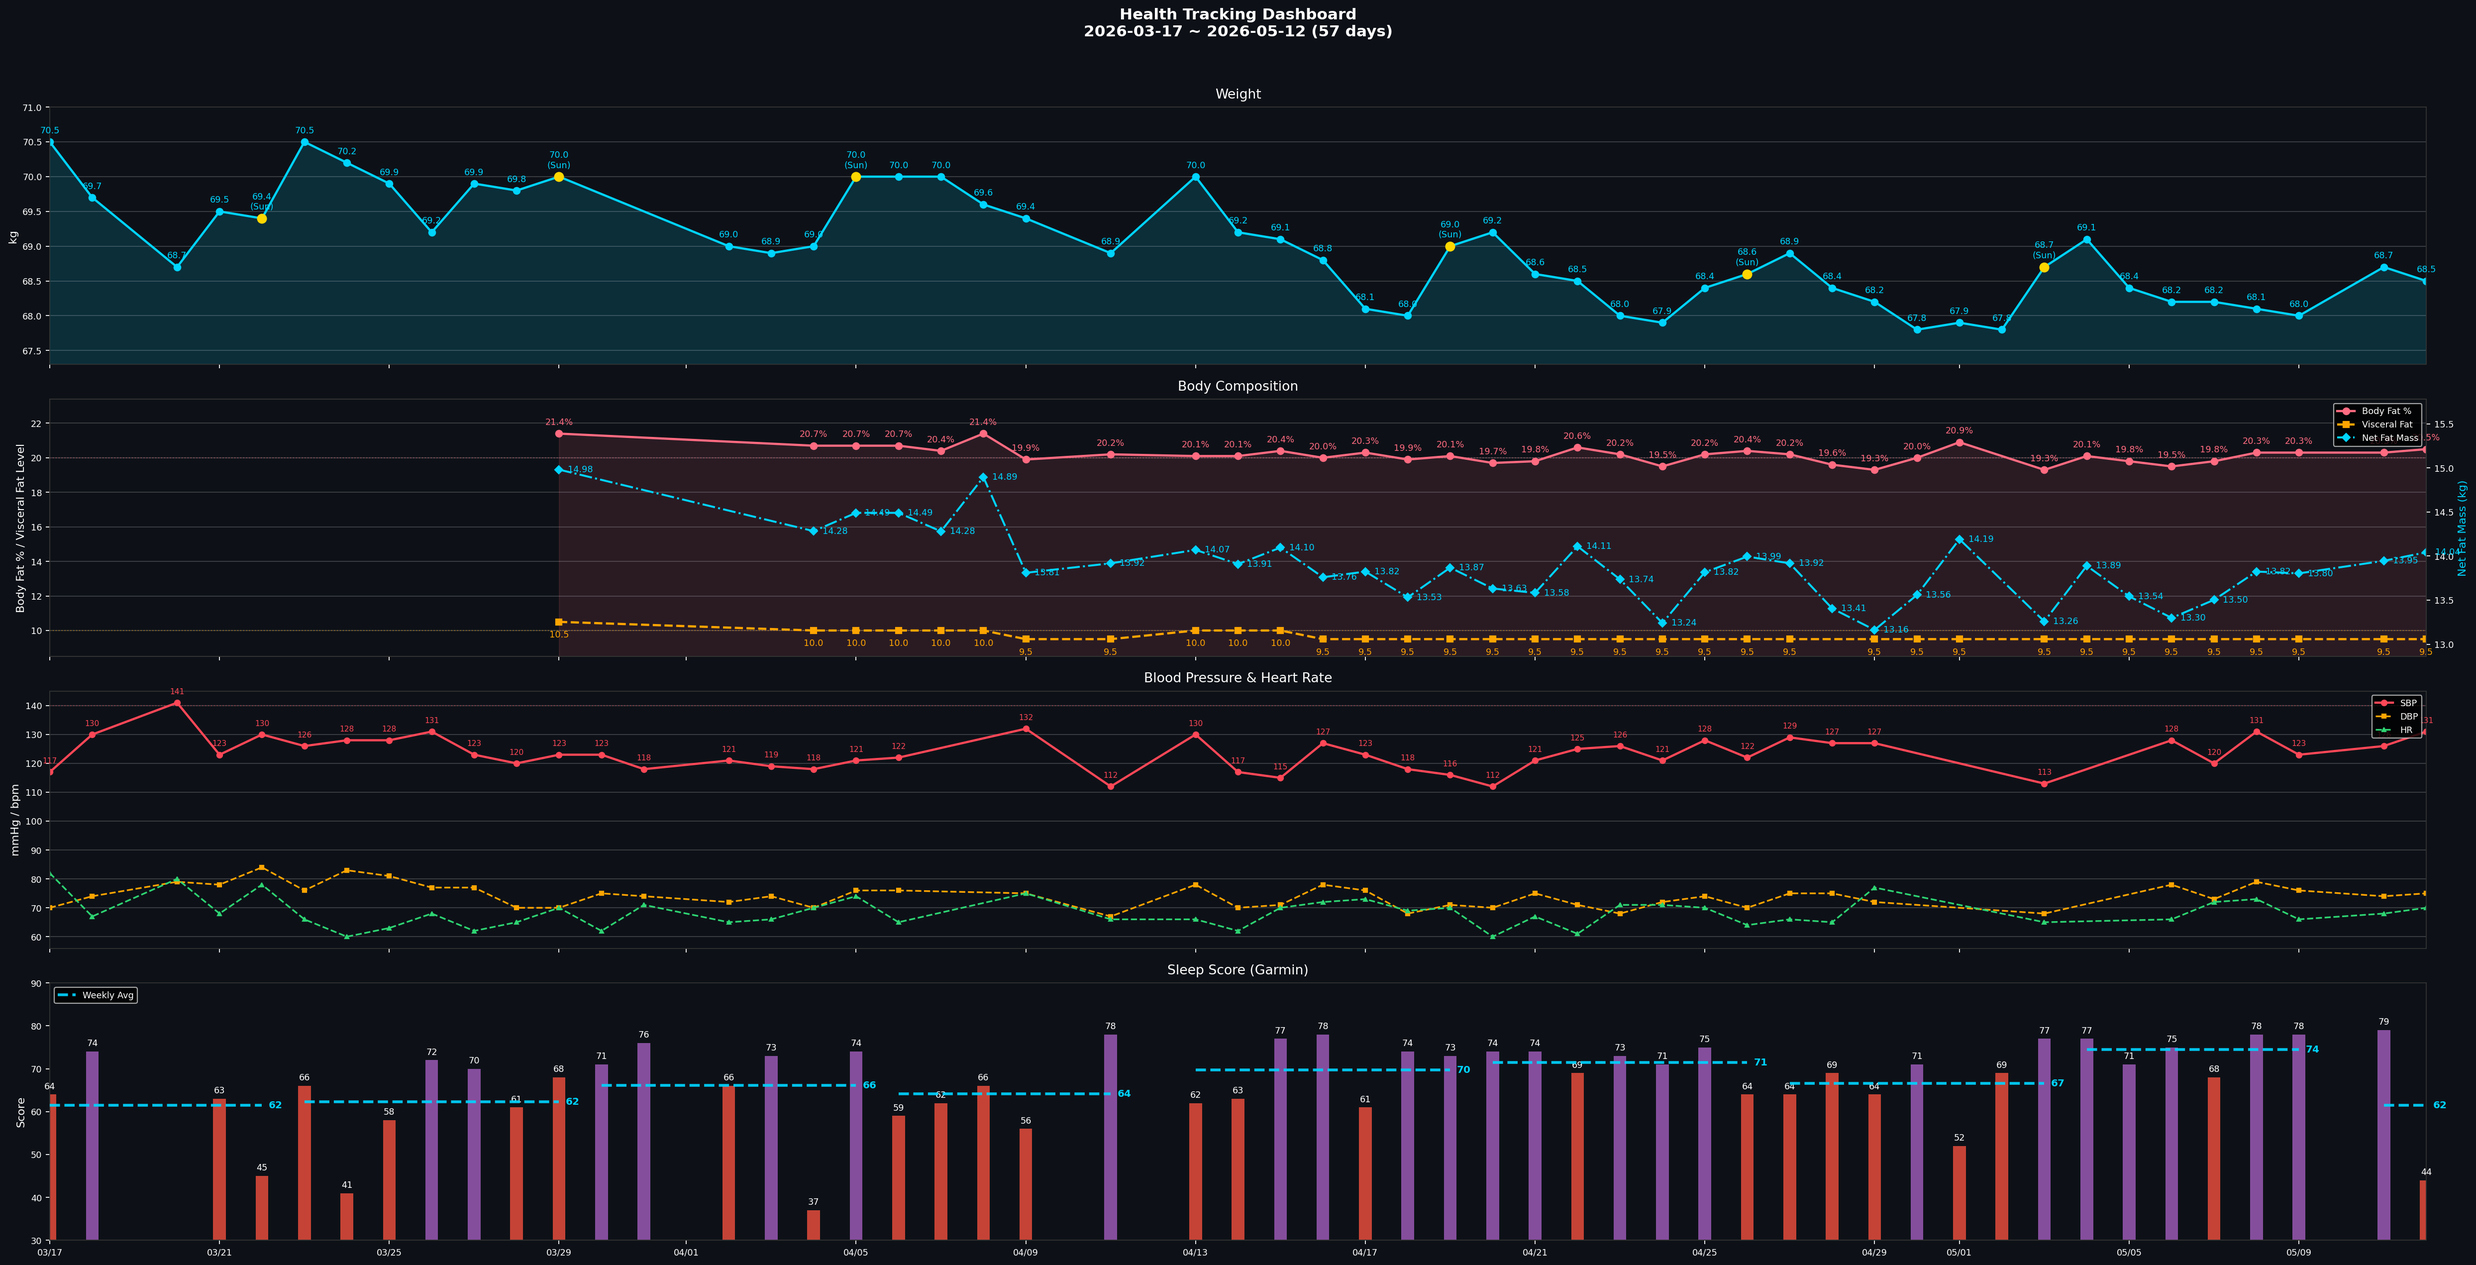
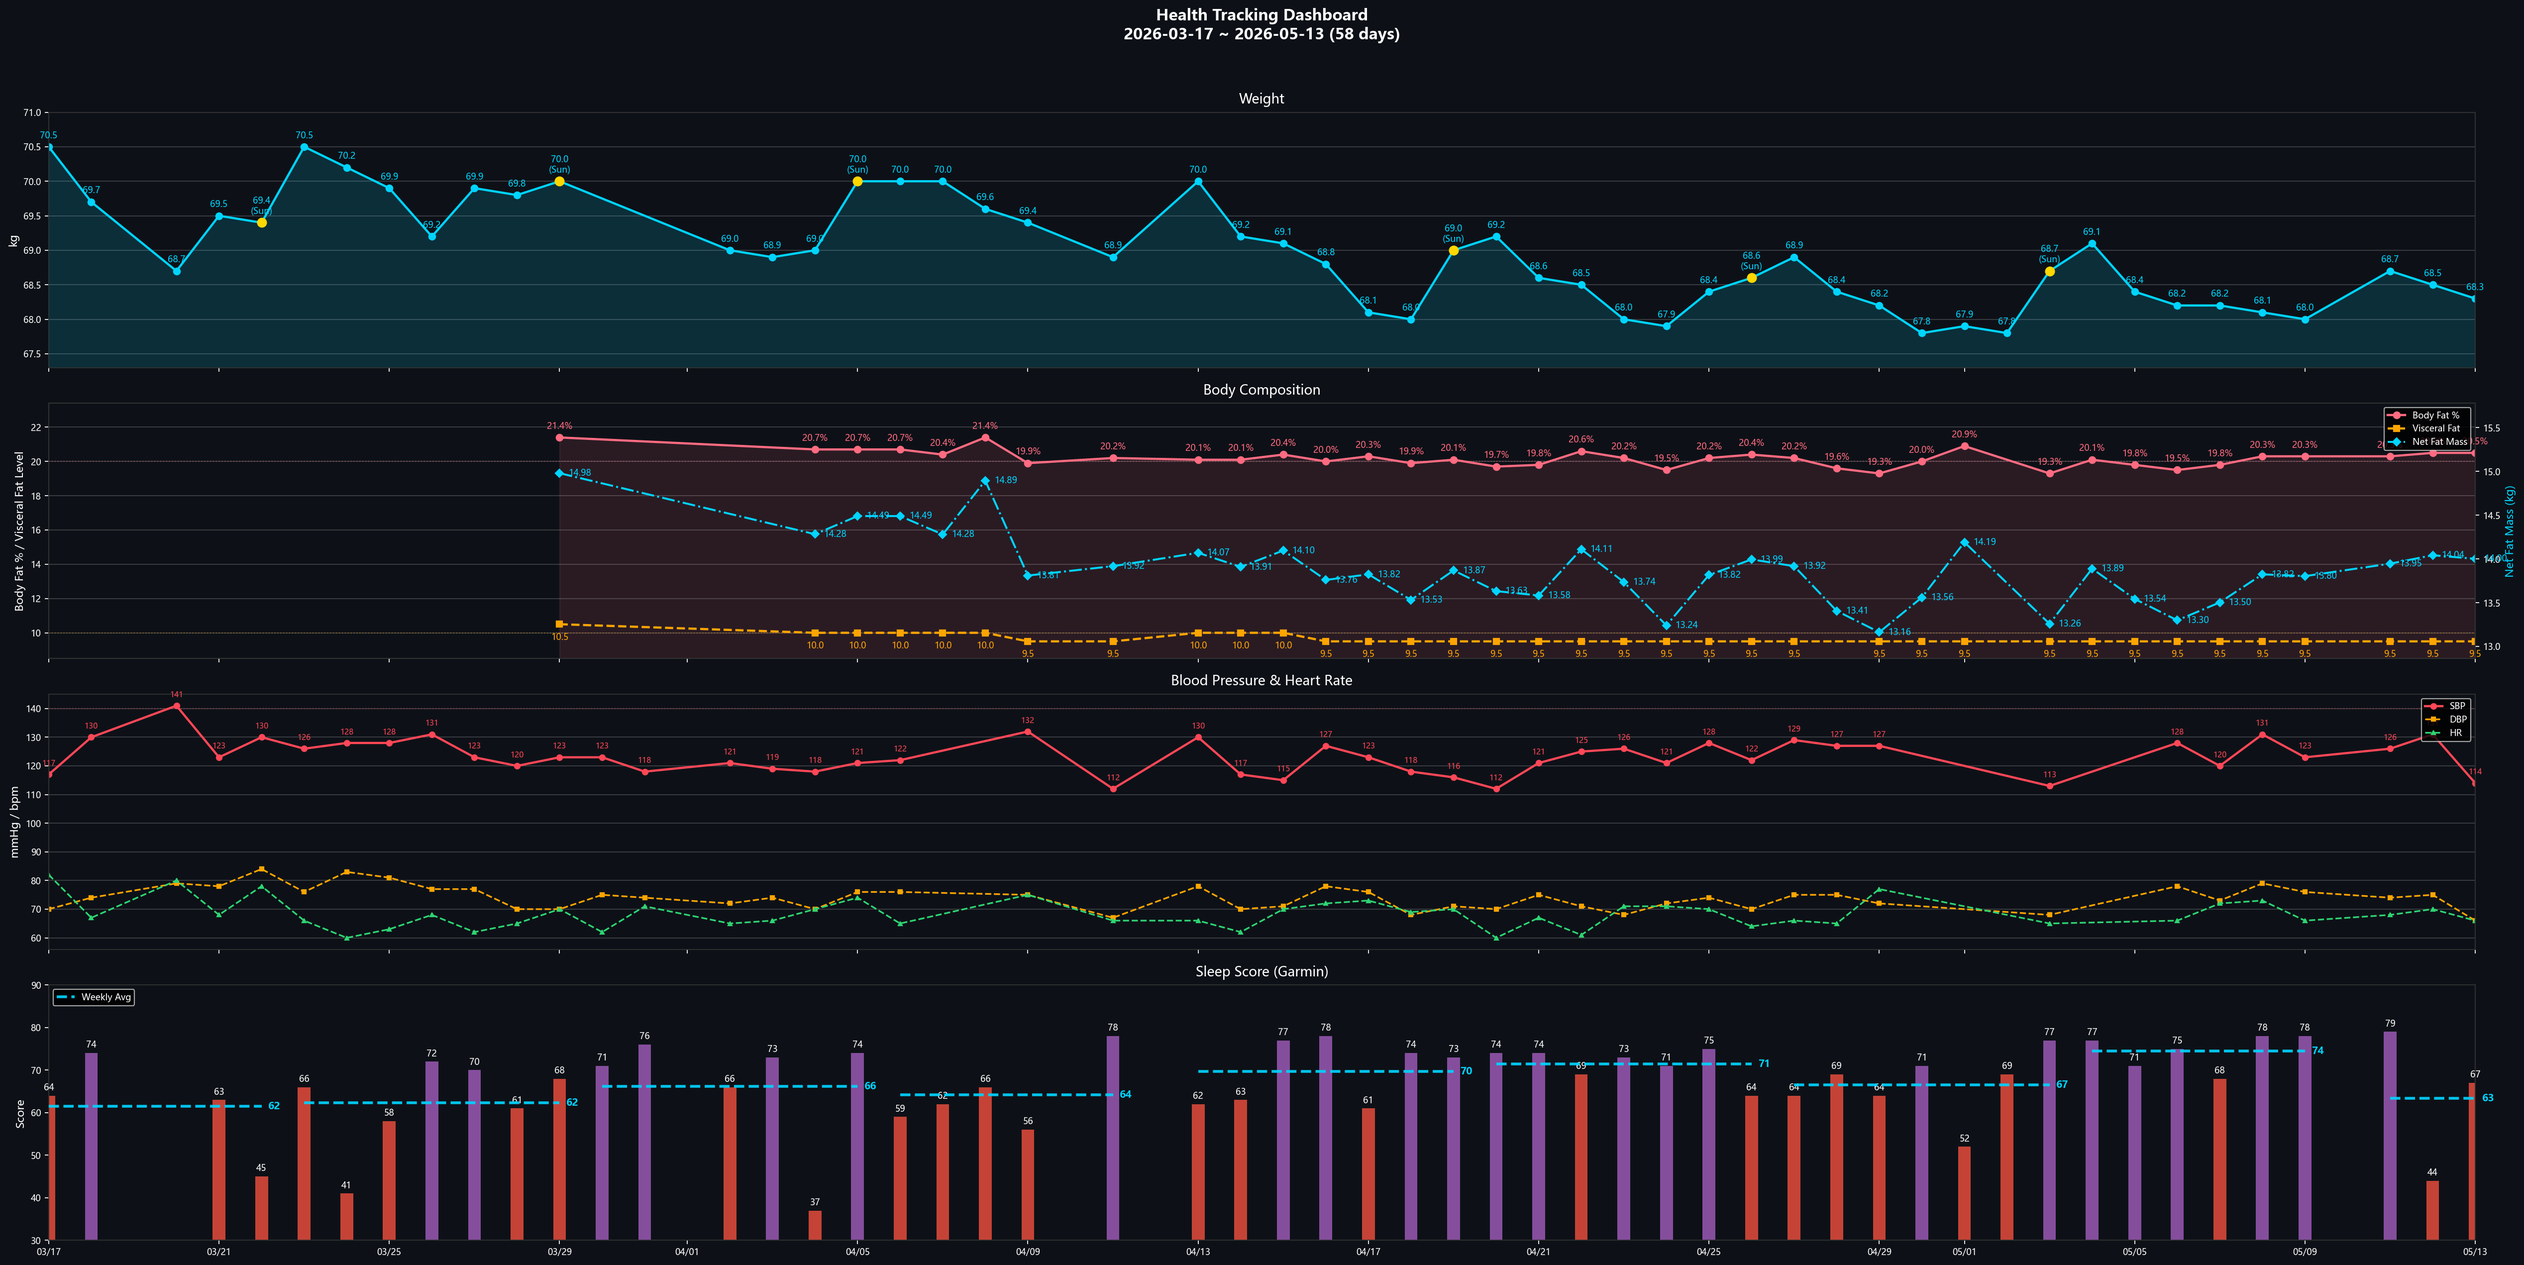
daily 2026-05-13: 68.3 kg / BP 114-66-66 / Sleep 67 / SpO2 nadir 82%
- 體重 68.3 kg、體脂 20.5%、內臟脂肪 9.5
- BP 第二次 114/66/66（穩定）
- 睡眠 22:21→03:42 (5h 20m)，Sleep Score 67，BB 42，主觀 2/5
- SpO2 連 7 晚 < 88%（最低 82%），25 晚命中 100% — PSG 紅旗持續
- 昨日飲水 2.0 L（已回寫 Garmin），活動消耗 320 kcal
- 身體信號：清
- 同步 weekly W20、dashboard、data.js

diff --git a/data.js b/data.js
@@ -9,8 +9,8 @@ window.HC_DATA = {
     lede:    { en: "Sleep, BP, lipids, uric acid — one shared metabolic root. Lifestyle stacks first; medication only after lifestyle plateaus.",
                zh: "睡眠、血壓、血脂、尿酸——共享同一個代謝根源。生活方式介入優先，等到效果平台期再考慮藥物。" },
     progressLbl: { en: "Weight progress · 70 → 65 kg", zh: "體重進度 · 70 → 65 公斤" },
-    progressMeta: { en: "Day 57 · 68.0 kg · Sat official (5/9)", zh: "第 57 天 · 68.0 公斤 · 週六正式（5/9）" },
-    startDate: { en: "Start date · Mar 17, 2026 · Last sync 5/12", zh: "起始日期 · 2026 年 3 月 17 日 · 最後同步 5/12" },
+    progressMeta: { en: "Day 58 · 68.0 kg · Sat official (5/9)", zh: "第 58 天 · 68.0 公斤 · 週六正式（5/9）" },
+    startDate: { en: "Start date · Mar 17, 2026 · Last sync 5/13", zh: "起始日期 · 2026 年 3 月 17 日 · 最後同步 5/13" },
     startWeight: 70,
     targetWeight: 65,
     currentWeight: 68.0,
@@ -21,13 +21,13 @@ window.HC_DATA = {
     {
       sys: "heart", name: { en: "Blood Pressure", zh: "血壓" },
       val: "126/76", unit: "mmHg",
-      delta: { en: "W19 weekly avg (4 days) · target met (<130) · last 131/75 (5/12)", zh: "W19 週均（4 天）· 已達標 (<130) · 最新 131/75 (5/12)" },
+      delta: { en: "W19 weekly avg (4 days) · target met (<130) · last 114/66 (5/13)", zh: "W19 週均（4 天）· 已達標 (<130) · 最新 114/66 (5/13)" },
       cadence: { en: "Daily · weekly avg", zh: "每日 · 週均" },
       status: "ok",
     },
     {
       sys: "sleep", name: { en: "Sleep Score", zh: "睡眠分數" },
-      val: "44", unit: "Garmin",
+      val: "67", unit: "Garmin",
       delta: { en: "5/4 · OSA flag: T90 18.4% (severe)", zh: "5/4 · OSA 紅旗：T90 18.4%（重度）" },
       cadence: { en: "Daily · Garmin", zh: "每日 · Garmin" },
       status: "warn",
@@ -820,14 +820,14 @@ window.HC_DATA = {
   tracker: {
     // [SBP, DBP] — gaps filled with prior reading
     bp: [
-      [127,75], [127,72], [127,72], [127,72], [127,72], [113,68], [113,68], [113,68], [128,78], [120,73], [131,79], [123,76], [126,74], [131,75],
+      [127,72], [127,72], [127,72], [127,72], [113,68], [113,68], [113,68], [128,78], [120,73], [131,79], [123,76], [126,74], [131,75], [114,66],
     ],
     // 4/21–5/4 daily weight (kg)
-    weight: [68.4, 68.2, 67.8, 67.9, 67.8, 68.7, 69.1, 68.4, 68.2, 68.2, 68.1, 68, 68.7, 68.5],
+    weight: [68.2, 67.8, 67.9, 67.8, 68.7, 69.1, 68.4, 68.2, 68.2, 68.1, 68, 68.7, 68.5, 68.3],
     // Garmin Sleep Score
-    sleep:  [69, 64, 71, 52, 69, 77, 77, 71, 75, 68, 78, 78, 79, 44],
+    sleep:  [64, 71, 52, 69, 77, 77, 71, 75, 68, 78, 78, 79, 44, 67],
     // Body Battery waking
-    bb:     [57, 58, 51, 47, 41, 54, 49, 47, 56, 47, 37, 48, 55, 36],
+    bb:     [58, 51, 47, 41, 54, 49, 47, 56, 47, 37, 48, 55, 36, 42],
   },
 
   // ===== Running — started 2026-04-26 =====

diff --git a/reviews/food/2026-05-12.md b/reviews/food/2026-05-12.md
@@ -1,0 +1,92 @@
+# 飲食紀錄 — 2026-05-12
+
+**每日目標**（減重期 1,800 kcal / 體重 68 kg）：蛋白質 95 g ｜ 脂肪 50–65 g ｜ 碳水 225–250 g ｜ 纖維 ≥25 g ｜ 鈉 <1,500 mg ｜ 水 2.5–3.0 L
+
+---
+
+## 早餐（目標 350–400 kcal / 30–32 g 蛋白質）
+
+| 品項 | 份量 | 熱量 (kcal) | 蛋白質 (g) | 脂肪 (g) | 碳水 (g) | 膳食纖維 (g) | 鈉 (mg) | 鉀 (mg) |
+|------|------|-------------|------------|----------|----------|--------------|---------|---------|
+| _待補_ | | | | | | | | |
+| **小計** | | | | | | | | |
+
+---
+
+## 午餐（目標 450–550 kcal / 30–32 g 蛋白質）
+
+| 品項 | 份量 | 熱量 (kcal) | 蛋白質 (g) | 脂肪 (g) | 碳水 (g) | 膳食纖維 (g) | 鈉 (mg) | 鉀 (mg) |
+|------|------|-------------|------------|----------|----------|--------------|---------|---------|
+| 白煮蛋 | 2 顆（~100 g） | 140 | 12.6 | 10.0 | 0.8 | 0 | 140 | 126 |
+| _其他午餐品項待補（計畫：地瓜 150 g + 自帶毛豆 120 g + 菇蕈沙拉 30-50 g + 自泡抹茶拿鐵 400 mL）_ | | | | | | | | |
+| **小計（目前）** | | **140** | **12.6** | **10.0** | **0.8** | **0** | **140** ✅ | **126** |
+
+**對照昨日午餐（茶葉蛋 ×2）**：
+| 項目 | 昨日茶葉蛋 ×2 | 今日白煮蛋 ×2 | Δ |
+|------|---------------|---------------|---|
+| 鈉 | 580 mg | 140 mg | **−440 mg** ✅（與 CLAUDE.md 預估完全吻合）|
+| 蛋白質 | 14 g | 12.6 g | −1.4 g（可忽略）|
+| 熱量 | 160 kcal | 140 kcal | −20 kcal |
+
+---
+
+## 晚餐（目標 450–550 kcal / 30–32 g 蛋白質）
+
+| 品項 | 份量 | 熱量 (kcal) | 蛋白質 (g) | 脂肪 (g) | 碳水 (g) | 膳食纖維 (g) | 鈉 (mg) | 鉀 (mg) |
+|------|------|-------------|------------|----------|----------|--------------|---------|---------|
+| _待補（計畫：清蒸魚 / 白肉雞 + 菇蕈 50-80 g + 蔬菜，避高鈉醬料）_ | | | | | | | | |
+| **小計** | | | | | | | | |
+
+---
+
+## 點心 / 其他
+
+| 品項 | 份量 | 熱量 (kcal) | 蛋白質 (g) | 脂肪 (g) | 碳水 (g) | 膳食纖維 (g) | 鈉 (mg) | 鉀 (mg) |
+|------|------|-------------|------------|----------|----------|--------------|---------|---------|
+| _待補_ | | | | | | | | |
+| **小計** | | | | | | | | |
+
+---
+
+## 每日總計 vs 目標（目前進度）
+
+| | 熱量 (kcal) | 蛋白質 (g) | 脂肪 (g) | 碳水 (g) | 膳食纖維 (g) | 鈉 (mg) | 鉀 (mg) | Na/K |
+|--|-------------|------------|----------|----------|--------------|---------|---------|------|
+| **目前** | 140 | 12.6 | 10.0 | 0.8 | 0 | 140 | 126 | 1.11 ⚠（極早期，僅 2 顆蛋）|
+| **目標** | 1,800 | 95 | 50–65 | 225–250 | ≥25 | <1,500 | ≥3,500 | <0.6 |
+| **剩餘額度** | 1,660 | 82.4 | 40-55 | 224 | ≥25 | **1,360 ✅ 充裕** | 3,374 | — |
+
+**Na/K 比值判讀（你高 BP + OSA 體質）**：
+- < 0.5 ✅ 理想（INTERSALT 1988 與最低 BP 相關）
+- 0.5-0.6 🟢 良好
+- 0.6-0.8 🟡 邊緣
+- > 0.8 🟠 警示（鈉相對鉀過高 → BP 上升風險、夜間水腫加劇 OSA）
+
+---
+
+## 補充品（不計熱量）
+
+- [ ] 早：Vitamin D3 3000 IU + K2 MK-7 100 mcg（需 ≥5 g 脂肪同攝）、L-Citrulline 2 g
+- [ ] 午：—
+- [ ] 晚：Omega-3 魚油 rTG ×2（晚餐後、高脂餐吸收最佳）
+- [ ] 睡前：Chelated Magnesium 400 mg（睡前 1-2 小時）、酸櫻桃 500 mg
+
+## 水分（目標 2.5–3.0 L，17:00 前完成主補水）
+
+- [ ] 晨起 300–400 mL 溫水
+- [ ] 上午拿鐵 1 杯
+- [ ] 午前/午後各 500 mL
+- [ ] 洛神花茶 ×2 杯
+- [ ] 17:00 後僅補水至口渴解除
+
+---
+
+## 觀察
+
+- ✅ 午餐已成功將茶葉蛋換成白煮蛋，鈉攝取較昨日同部位降低 440 mg（驗證 CLAUDE.md 替換策略效益）
+- ⚠ 鈉預算還剩 1,360 mg，**晚餐若選清蒸無醬可控在 400-600 mg**，仍可大幅低於昨日 1,160 mg/全日的趨勢
+- ⚠ 鉀進度極低（126/3,500 mg = 4%），今日剩餘餐次應主動補：香蕉、地瓜、毛豆、菇蕈、深綠葉菜（每項約 +400-500 mg K）
+
+---
+
+*Filed: reviews/food/2026-05-12.md*

diff --git a/reviews/daily/2026-05-13.md b/reviews/daily/2026-05-13.md
@@ -1,0 +1,102 @@
+# 晨間健康紀錄 — 2026-05-13
+
+*3 分鐘。起床後立即完成。記錄，不分析。*
+
+---
+
+## 體重
+
+**今日：68.3 kg**
+**體脂率：20.5 %**
+**內臟脂肪等級：9.5**
+
+*每週六早晨為正式紀錄（排尿後、進食前；連 5 個工作日後、週末大餐前的真實低點）。其他日可選填。*
+
+---
+
+## 血壓（晨間）
+
+*起床後 1 小時內，上完廁所、進食前。坐下安靜 5 分鐘，連量兩次取第二次。*
+
+| 次數 | 收縮壓 | 舒張壓 | 心率 |
+|------|--------|--------|------|
+| 第一次 | — | — | — |
+| 第二次 | 114 | 66 | 66 |
+
+---
+
+## 睡眠狀態
+
+**Garmin 偵測入睡：** 22:21
+**實際上床：**
+**實際起床：** 03:42
+**中途醒來：** 無
+**Garmin Sleep Score：** 67 / 100
+**Garmin Body Battery 起床值：** 42
+**主觀恢復感：** 2 / 5（疑有加不足）
+**入睡 latency：** 自動估算
+
+### SpO2 夜間最低（7 晚趨勢）
+
+| 日期 | -6 | -5 | -4 | -3 | -2 | -1 | 今晨 |
+|------|----|----|----|----|----|----|------|
+| 日期 | 05-07 | 05-08 | 05-09 | 05-10 | 05-11 | 05-12 | 05-13 |
+| 最低 % | 79 | 87 | 85 | 84 | 84 | 86 | 82 |
+
+**今晨日均 SpO2：** 97%
+**< 88% 連續晚數：** 7（OSA 紅旗門檻：連 3 晚 < 88% → 強烈建議 PSG）
+
+**SpO2 全夜圖：** ![](spo2/spo2_desat_2026-05-13.png)
+**SpO2 趨勢圖：** ![](spo2/spo2_desat_trend.png)
+**SpO2 多晚 Overlay（rolling 7 晚）：** ![](spo2/spo2_overlay_2026-05-07_to_2026-05-13_elapsed.png)
+
+*Sleep Score < 65 或 Body Battery < 50 連續三天 → 重新檢視睡眠修復方案。*
+
+---
+
+## 昨日回顧
+
+**實際飲水量：** 2.0 L（目標 ≥ 2.5L；高尿酸最佳 2.8–3.0L；17:00 前完成 60-70%）— 已回寫至 Garmin Connect
+**昨日活動消耗：** 320 kcal（主動 245 + BMR；4 段：cycling/walking/cycling/meditation）
+**昨日 Na / K / Na-K ratio：** — / — / —（飲食檔有 3 row 但未填值）
+
+---
+
+## 身體信號
+
+*任何張力、疼痛、疲勞、異常 — 或「清」。記位置、性質、強度。*
+
+| 部位 | 性質 | 強度 (0-10) |
+|------|------|-------------|
+| 清 | — | — |
+
+---
+
+## 今日計畫速記
+
+- [ ] 飲水目標：3.0 L（錨點 09:30 ≥1.0L / 13:30 ≥2.0L / 17:00 截止 2.5L）
+- [ ] 補充品（核心，2026-05-11 v2）：
+  - 早餐（06:00）：D3 2000 IU + K2 MK-7 180 mcg + L-Citrulline 4 g + 益生菌
+  - 午餐前 30 min：Psyllium 5 g + 350 mL 水
+  - 晚餐前 30 min：Psyllium 5 g + 350 mL 水
+  - 晚餐後：魚油 ×4（拆 18:30 ×2 + 19:30 ×2）
+  - 睡前（21:00）：鎂甘胺酸 400 mg + 酸櫻桃 1000-2000 mg + Glycine 純粉 3 g
+  - 茶飲：洛神花 ×2 杯（早 + 14:00 前）
+  - 食物層：南瓜籽 30 g（15:30）+ 菇蕈 100-130 g/天（午 30-50 + 晚 50-80）
+- [ ] 運動（17:00 固定）：依排程執行
+- [ ] 活動度/伸展（09:30 + 20:30 兩次錨點）
+- [ ] Wind-down（20:00 燈光降 + 螢幕濾鏡，液體截止）
+- [ ] 上床 21:30 / 熄燈 22:00（TST 目標 7h+）
+
+---
+
+### 💡 PT 建議
+
+1. **OSA 紅旗極度緊急**：最低 SpO2 **連續 7 晚 < 88%**（今晨 82%，25 晚命中率 100%、平均 82.6%）— 立即預約 PSG 多項睡眠檢查，勿再延遲。
+2. **睡眠效率**：總時長 5h 20m + 03:42 早醒 + 主觀恢復感 2/5；今晚提前 wind-down，22:00 熄燈為硬性目標，避免再縮短 TST。
+3. **飲水補強**：昨日 2.0 L 略低於 2.5L 目標；今日依錨點 09:30/13:30/17:00 推進至 3.0L，配合高尿酸排泄。
+4. **BP 114/66**：正常範圍，趨勢延續穩定。
+
+---
+
+*Filed: reviews/daily/2026-05-13.md*

diff --git a/reviews/weekly/2026-W20.md b/reviews/weekly/2026-W20.md
@@ -31,9 +31,9 @@
 
 |  | 一 | 二 | 三 | 四 | 五 | 六 | 日 |
 |--|----|----|----|----|----|----|-----|
-| 體重 (kg) | 68.7 | 68.5 | | | | | |
-| 體脂率 (%) | 20.3 | 20.5 | | | | | |
-| 內臟脂肪 | 9.5 | 9.5 | | | | | |
+| 體重 (kg) | 68.7 | 68.5 | 68.3 | | | | |
+| 體脂率 (%) | 20.3 | 20.5 | 20.5 | | | | |
+| 內臟脂肪 | 9.5 | 9.5 | 9.5 | | | | |
 
 **本週正式讀數（週六早晨）：** _____ kg｜體脂率：_____%｜內臟脂肪：_____
 **上週正式讀數（週六早晨）：** _____ kg｜體脂率：_____%｜內臟脂肪：_____
@@ -47,7 +47,7 @@
 |------|--------|--------|------|
 | 05-11 (一) | 126 | 74 | 68 |
 | 05-12 (二) | 131 | 75 | 70 |
-| 05-13 (三) | | | |
+| 05-13 (三) | 114 | 66 | 66 |
 | 05-14 (四) | | | |
 | 05-15 (五) | | | |
 | 05-16 (六) | | | |
@@ -65,7 +65,7 @@
 |------|------|------|--------|-------------|--------------|----------|
 | 05-11 (一) | 21:46 | 06:01 | 0 | 79 | 55 | 3 |
 | 05-12 (二) | 21:25 | 01:31 | 0 | 44 | 36 | 2 |
-| 05-13 (三) | | | | | | |
+| 05-13 (三) | 22:21 | 03:42 | 0 | 67 | 42 | 2 |
 | 05-14 (四) | | | | | | |
 | 05-15 (五) | | | | | | |
 | 05-16 (六) | | | | | | |
@@ -111,6 +111,7 @@
 |------|------------------------|
 | 05-11 | 騎車 30.4 min（兩段）+ meditation 10 min；主動 277 kcal |
 | 05-12 | 待定（雙腳痠 → 改低衝擊 Zone 2 騎車或快走 30 min） |
+| 05-13 | 17:00 排程運動（待完成） |
 
 ---
 

diff --git a/reports/daily-garmin/2026-05-12.md b/reports/daily-garmin/2026-05-12.md
@@ -6,28 +6,33 @@
 - 深眠：72 分｜REM：0 分
 - Sleep Score：44
 - Body Battery 起床值：36
+- 估算上床：21:00｜入睡 latency：26 分
 
 ## 靜息心率
 - RHR：60.0 bpm
 
 ## 壓力
-- 日均：27
+- 日均：29
 
 ## 步數
-- 總計：3,930
+- 總計：11,240
 
 ## SpO2
-- 日均：96.0%
+- 日均：95.0%
 - 最低：86%
 
 ## 活動
 | 時段 | 類型 | 距離 | 時長 | 平均 HR | 最大 HR | 主動 kcal | 含 BMR |
 |------|------|------|------|---------|---------|-----------|--------|
 | 09:27 | cycling | 1.15 km | 32.9 min | 98 | 156 | 130 | 174 |
+| 12:36 | walking | 1.22 km | 18.8 min | 103 | 118 | 80 | 105 |
+| 17:15 | cycling | 1.10 km | 4.7 min | 122 | 133 | 35 | 41 |
+| 18:06 | meditation | 0.00 km | 10.0 min | 85 | 106 | 0 | 0 |
+| **小計** | 4 段 | **3.47 km** | **66.4 min** | — | — | **245** | **320** |
 
 ## 飲水
-- 實際：0.00 L
+- 實際：0.50 L
 - 目標：2.00 L
-- 運動流汗耗水：0.36 L
+- 運動流汗耗水：0.76 L
 
 _Source: data/garmin/2026-05-12.json (gitignored)_

diff --git a/reports/daily-garmin/2026-05-13.md b/reports/daily-garmin/2026-05-13.md
@@ -1,0 +1,33 @@
+# Garmin 每日摘要 — 2026-05-13
+
+## 睡眠
+- 就寢：22:21｜起床：03:42
+- 總時長：5h 20m
+- 深眠：121 分｜REM：57 分
+- Sleep Score：67
+- Body Battery 起床值：42
+
+## 靜息心率
+- RHR：58.0 bpm
+
+## 壓力
+- 日均：23
+
+## 步數
+- 總計：616
+
+## SpO2
+- 日均：97.0%
+- 最低：82%
+
+## 活動
+| 時段 | 類型 | 距離 | 時長 | 平均 HR | 最大 HR | 主動 kcal | 含 BMR |
+|------|------|------|------|---------|---------|-----------|--------|
+| 08:50 | cycling | 1.15 km | 6.1 min | 140 | 156 | 56 | 64 |
+
+## 飲水
+- 實際：0.00 L
+- 目標：2.00 L
+- 運動流汗耗水：0.09 L
+
+_Source: data/garmin/2026-05-13.json (gitignored)_
